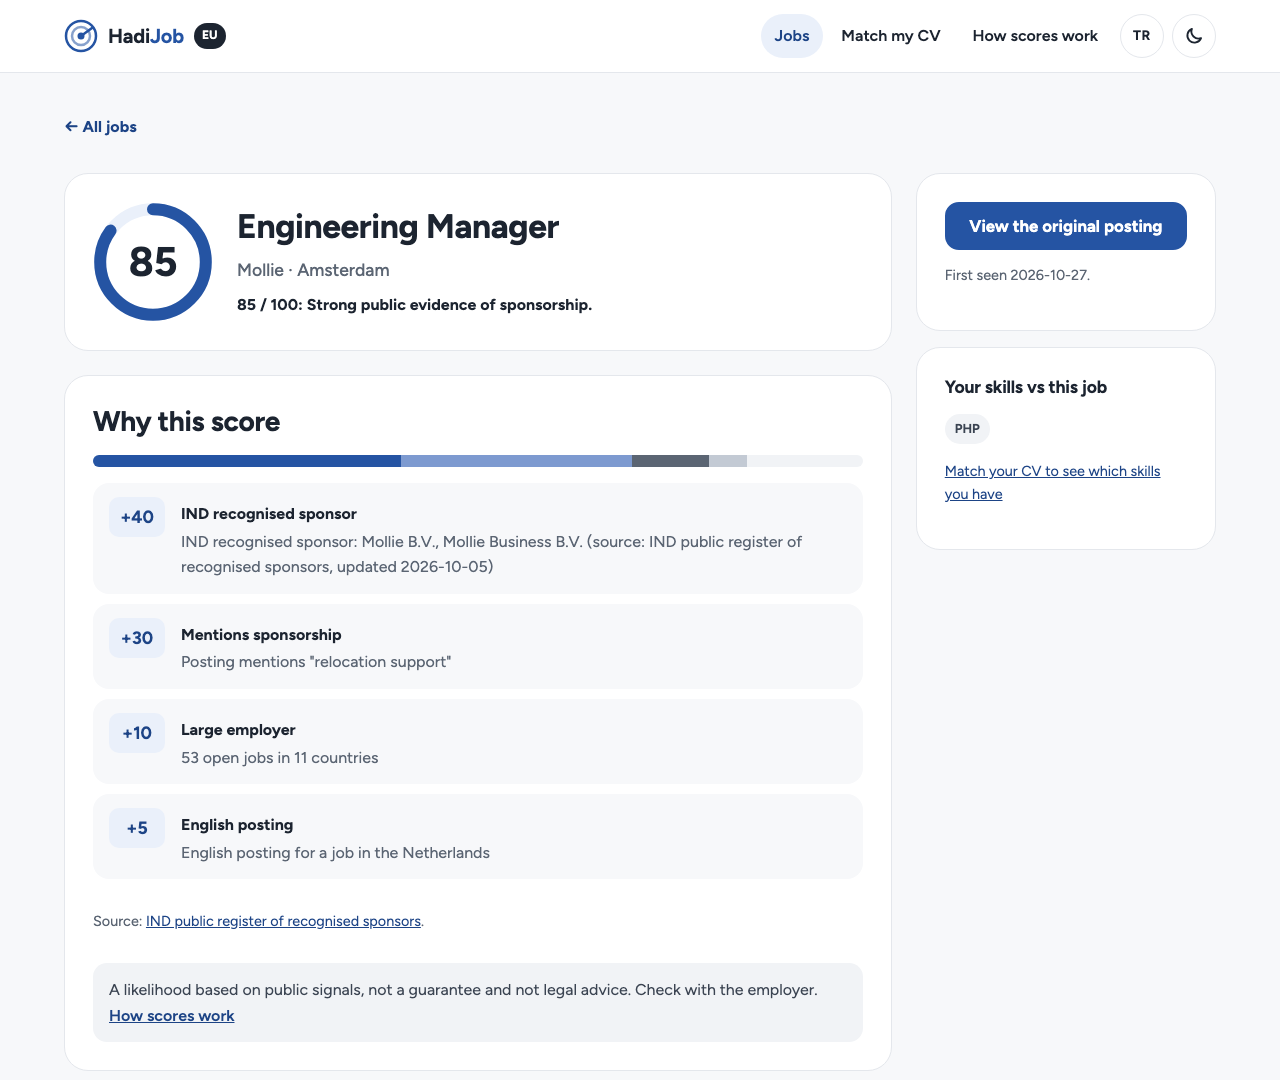
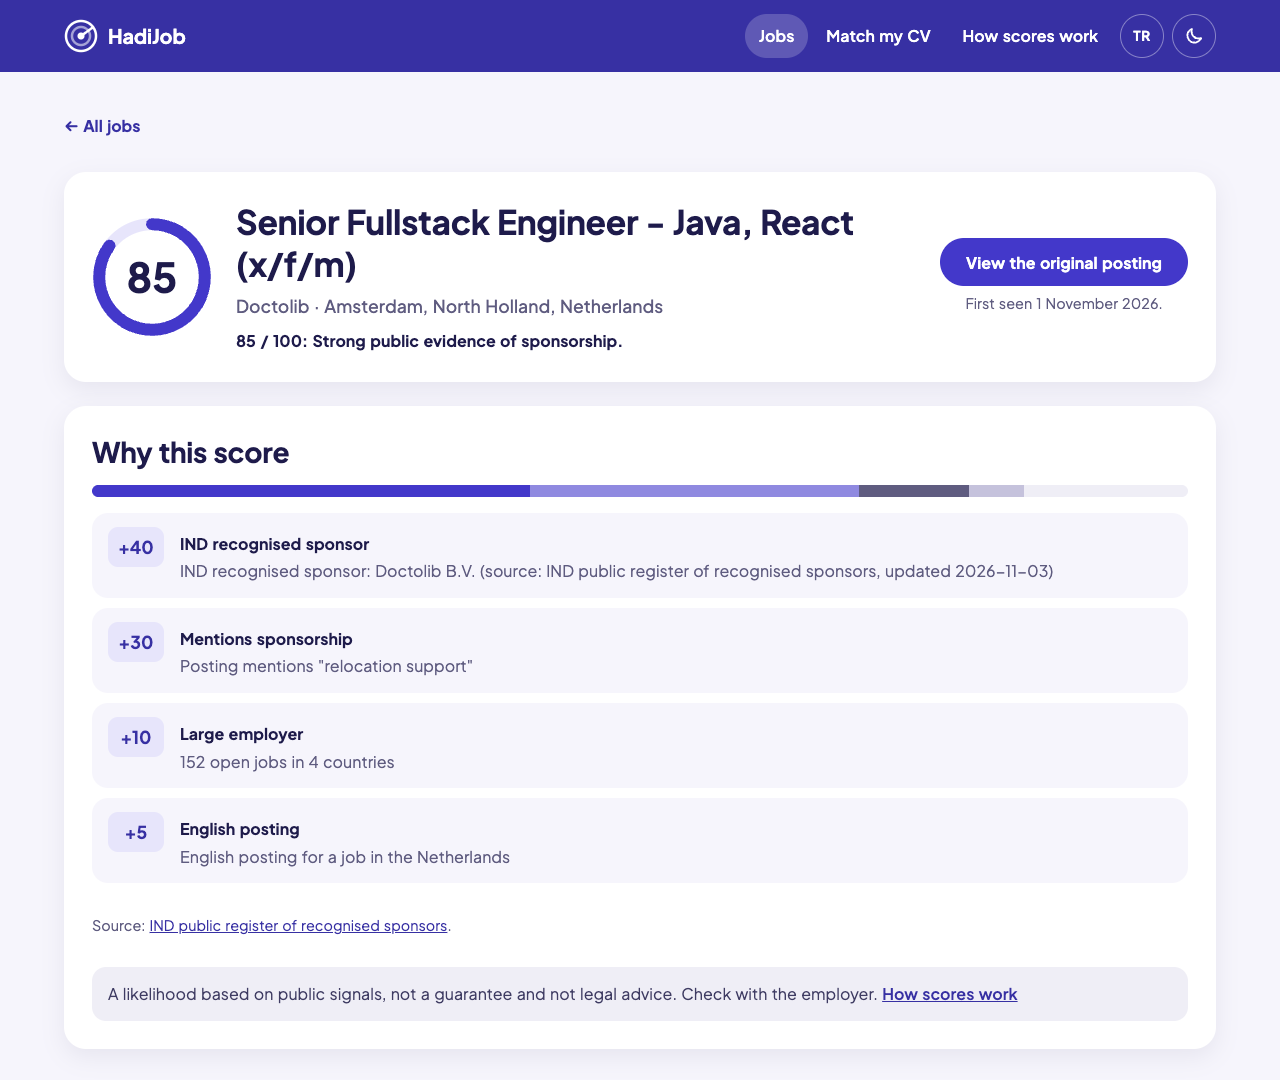
docs: the search-first redesign, new screenshots and the roadmap

diff --git a/README.md b/README.md
@@ -41,7 +41,7 @@ HadiJob checks **public evidence** instead: government sponsor registers, what t
 - **Official sponsor evidence.** The Dutch IND public register of recognised sponsors (13,000+ organisations) and the Irish list of employment permits issued to companies (9,000+ employers in the last 12 months) and the UK register of licensed sponsors (121,000 Skilled Worker sponsors), matched to employers with 100% precision on a hand-labelled set.
 - **Reads the posting for you.** Sponsorship offers, relocation packages and "no sponsorship" rule-outs, with negation handled ("we do _not_ offer visa sponsorship").
 - **Salary against real thresholds.** 2026 work-permit minimums for each country in its own currency (euro, pound, krona, złoty), comparing base salary only (commission and deal sizes are ignored).
-- **Built to scan, calm to read.** One accent colour and one typeface. Score tiles, evidence chips on every result, and a score ring with a bar showing how the points add up.
+- **Search first, in plain words.** One search bar (what, where, how strong the evidence) on a bold indigo band, with the first jobs right under it. Each job card gives its score and three plain-language reasons, and the job page shows a score ring with a bar of how the points add up.
 - **English and Turkish.** The language follows the visitor's region (Turkish in Turkey, English elsewhere) and can be switched in the header. Evidence lines are written from structured facts, so they read naturally in both languages.
 - **Match your CV, privately.** Drop in an English PDF CV: it is read in your browser, never uploaded, and the skills found are compared with each job. Results rank by fit, and every job page shows which of its skills you have.
 - **Search that stays shareable.** Filters and sorting live in the URL: country, keywords, minimum score, posting date, remote, and sort by strongest evidence, newest or highest salary.
@@ -118,7 +118,7 @@ From a full pipeline run on 2026-11-04:
 | UK matching (name + town rule)                | **100% precision · 75% recall** on 37 hand-labelled pairs                                      |
 | Duplicate postings folded                     | **1,206** into 658 roles                                                                       |
 | Full refresh of all boards                    | **75 s** (down from 37 min)                                                                    |
-| Tests                                         | **369**, plus an end-to-end smoke test                                                         |
+| Tests                                         | **449**, plus an end-to-end smoke test                                                         |
 
 ## Engineering highlights
 
@@ -147,7 +147,7 @@ From a full pipeline run on 2026-11-04:
 | Storage    | SQLite via `node:sqlite`                                                                  |
 | Web        | React 19 + Vite, plain CSS with design tokens, light and dark themes, English and Turkish |
 | API (v1)   | Fastify, Kysely + Postgres, Testcontainers. Built and tested, not deployed yet            |
-| Testing    | Vitest, Testing Library, jsdom: 369 tests, plus an offline end-to-end smoke test          |
+| Testing    | Vitest, Testing Library, jsdom: 449 tests, plus an offline end-to-end smoke test          |
 | Quality    | ESLint, Prettier, CodeQL, dependency review                                               |
 | Automation | GitHub Actions: CI on every PR, pipeline twice a day and on merge, deploy to GitHub Pages |
 
@@ -166,11 +166,18 @@ From a full pipeline run on 2026-11-04:
 - [x] Explainable scoring, dedup and the static site
 - [x] Automated pipeline and deploys, end-to-end smoke test
 - [x] HadiJob redesign with light and dark themes, then a calmer visual style
+- [x] Colourful, search-first redesign: one search bar and plain-language job cards
 - [x] English and Turkish, with evidence written in the visitor's language
 - [x] CV matching in the browser: skills from your CV, jobs ranked by fit
 - [x] v1 API: server-side job search, with the site falling back to static files
 - [x] Live on its own domain: hadijob.com
-- [ ] More countries and sponsor registers (next: Denmark, Portugal, Austria)
+- [ ] Search across all countries at once, or the EU only
+- [ ] More employers, found through the sponsor registers
+- [ ] Every role, not only tech: job categories from the title, with a category filter
+- [ ] The rest of Europe (Switzerland, Portugal, Denmark, Austria and more), after better location parsing
+- [ ] Evidence across borders: a registered sponsor in one country counts, at half weight, where there is no register
+- [ ] Company and country pages that search engines can index
+- [ ] "New since your last visit", kept only in your browser
 - [ ] Deploy the search API on AWS Lambda + Neon (€0, no accounts)
 - [ ] A public stats page with privacy-first visitor counts: no cookies, no tracking, bots filtered
 
